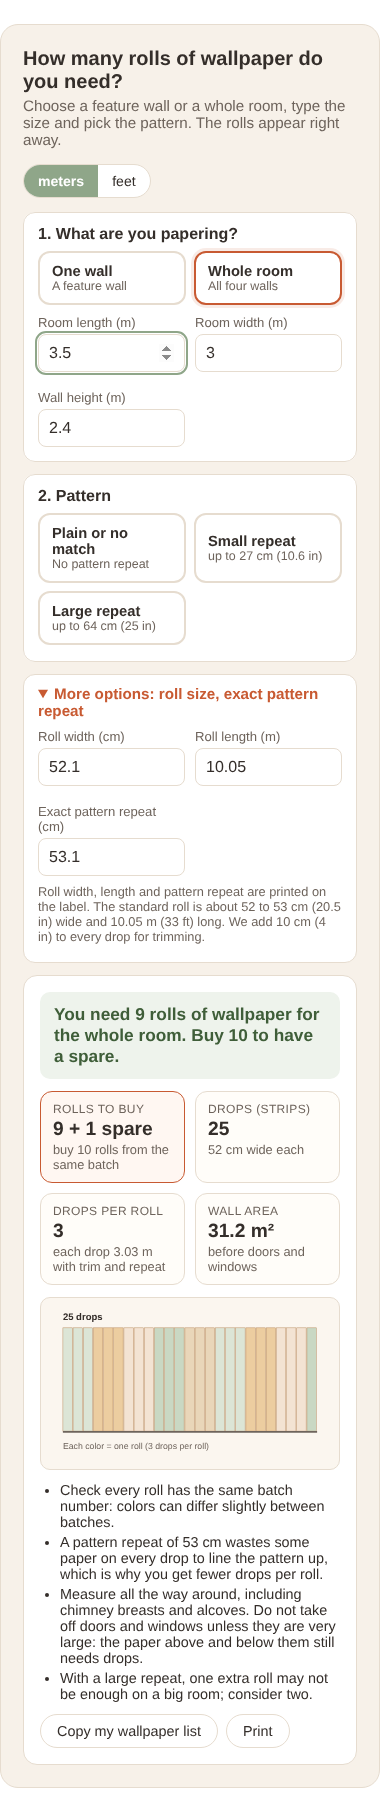
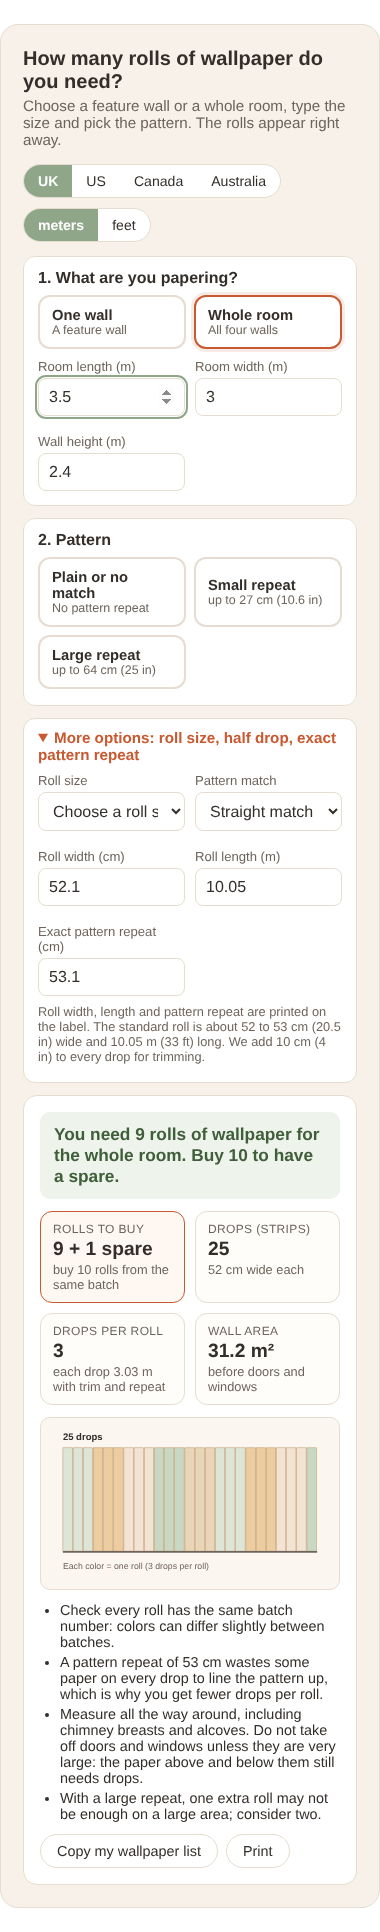
Wallpaper: countries, roll presets, half drop
Claude-Session: https://claude.ai/code/session_01NA5LVV4VZ27gRjP7KysXbg

diff --git a/tools/wallpaper-calc/content.html b/tools/wallpaper-calc/content.html
@@ -3,7 +3,7 @@
 <!-- /wp:paragraph -->
 
 <!-- wp:paragraph -->
-<p>Choose a feature wall or a whole room, type the size and pick the pattern. It works in meters or feet, and you can change the roll size under <em>More options</em> if your wallpaper is not a standard 52 to 53 cm (20.5 to 21 in) wide roll.</p>
+<p>Choose where you shop (UK, US, Canada or Australia), a feature wall or a whole room, then type the size and pick the pattern. It works in meters or feet, and under <em>More options</em> you can pick another roll size, a half-drop pattern or an exact pattern repeat.</p>
 <!-- /wp:paragraph -->
 
 <!-- wp:html -->
@@ -58,7 +58,7 @@
 </style>
 <h3>How many rolls of wallpaper do you need?</h3>
 <p class="sub">Choose a feature wall or a whole room, type the size and pick the pattern. The rolls appear right away.</p>
-<div class="row"><div class="seg" role="group" aria-label="Units"><button type="button" data-u="m">meters</button><button type="button" data-u="ft">feet</button></div></div>
+<div class="row"><div class="seg" role="group" aria-label="Where you shop"><button type="button" data-c="uk">UK</button><button type="button" data-c="us">US</button><button type="button" data-c="ca">Canada</button><button type="button" data-c="au">Australia</button></div><div class="seg" role="group" aria-label="Units"><button type="button" data-u="m">meters</button><button type="button" data-u="ft">feet</button></div></div>
 <fieldset><legend>1. What are you papering?</legend>
 <div class="opts" role="group" aria-label="Area">
 <button type="button" data-a="wall" class="on"><b>One wall</b><span>A feature wall</span></button>
@@ -77,8 +77,10 @@
 <button type="button" data-p="64"><b>Large repeat</b><span>up to 64 cm (25 in)</span></button>
 </div>
 </fieldset>
-<details class="more"><summary>More options: roll size, exact pattern repeat</summary>
+<details class="more"><summary>More options: roll size, half drop, exact pattern repeat</summary>
 <div class="grid">
+<label><span>Roll size</span><select id="rs"><option value="">Choose a roll size</option><option value="52,10.05">52 cm x 10.05 m (UK standard)</option><option value="53,10.05">53 cm x 10.05 m (European)</option><option value="61.5,10.05">61.5 cm x 10.05 m (some Australian brands)</option><option value="52.07,10.06">20.5 in x 33 ft (US double roll)</option><option value="52.07,5.03">20.5 in x 16.5 ft (US single roll)</option><option value="68.58,8.23">27 in x 27 ft (US double roll)</option></select></label>
+<label><span>Pattern match</span><select id="pm"><option value="0" selected>Straight match or no match</option><option value="0.5">Half drop</option></select></label>
 <label><span>Roll width</span> <span data-lu="s"></span><input type="number" inputmode="decimal" min="0" step="0.1" id="rlw"></label>
 <label><span>Roll length</span> <span data-lu="l"></span><input type="number" inputmode="decimal" min="0" step="0.01" id="rll"></label>
 <label><span>Exact pattern repeat</span> <span data-lu="s"></span><input type="number" inputmode="decimal" min="0" step="0.1" id="rp" placeholder="optional"></label>
@@ -127,7 +129,7 @@ if(w===null||h===null||w<=0||h<=0||(area==='room'?(rwid===null||rwid<=0):false))
 var Wm=L2m(w),Hm=L2m(h),run=area==='room'?2*(Wm+L2m(rwid)):Wm;
 var rw=(rlw===null||rlw<=0)?52:S2cm(rlw),rl=(rll===null||rll<=0)?10.05:L2m(rll);
 var rep=(rp===null||rp<0)?pat:S2cm(rp);
-var drop=Hm+0.10+rep/100;
+var pmh=parseFloat($('pm').value)||0;var drop=Hm+0.10+(rep/100)*(rep>0?1+pmh:1);
 var drops=Math.ceil(run*100/rw-0.0001);
 var dpr=Math.floor(rl/drop+0.0001);
 $('ka').textContent=fa(run*Hm);
@@ -138,20 +140,28 @@ $('kd').textContent=drops;$('kde').textContent=fs(rw)+' wide each';
 $('kp').textContent=dpr;$('kpe').textContent='each drop '+fl(drop)+' with trim'+(rep>0?' and repeat':'');
 vv.textContent='You need '+rolls+' roll'+(rolls===1?'':'s')+' of wallpaper'+(area==='room'?' for the whole room':' for this wall')+'. Buy '+(rolls+1)+' to have a spare.';
 tips.push('Check every roll has the same batch number: colors can differ slightly between batches.');
-if(rep>0){tips.push('A pattern repeat of '+fs(rep)+' wastes some paper on every drop to line the pattern up, which is why you get fewer drops per roll.')}
+if(rep>0){tips.push('A pattern repeat of '+fs(rep)+' wastes some paper on every drop to line the pattern up, which is why you get fewer drops per roll.')}if(rep>0?pmh>0:false){tips.push('Half drop: every other drop starts half a repeat lower, so the calculator allows one and a half repeats per drop. Check the label for the match type.')}
 if(area==='room'){tips.push('Measure all the way around, including chimney breasts and alcoves. Do not take off doors and windows unless they are very large: the paper above and below them still needs drops.')}else{tips.push('Do not take a door or window off a feature wall: the paper above and below it still needs full-length rolls.')}
 if(rep>=50){tips.push('With a large repeat, one extra roll may not be enough on a large area; consider two.')}
 $('tp').innerHTML=tips.map(function(t){return '<li>'+t+'</li>'}).join('');
 $('vz').innerHTML=svg(drops,dpr,rolls);
-summary='Wallpaper ('+(area==='room'?'whole room':'one wall')+', '+fl(run)+' wide x '+fl(Hm)+' high, '+(rep>0?'repeat '+fs(rep):'no repeat')+', roll '+fs(rw)+' x '+fl(rl)+'): '+drops+' drops, '+dpr+' per roll = '+rolls+' rolls, buy '+(rolls+1)+'. dailyspacehacks.com/wallpaper-calculator/'}
+summary='Wallpaper ('+(area==='room'?'whole room':'one wall')+', '+fl(run)+' wide x '+fl(Hm)+' high, '+(rep>0?'repeat '+fs(rep)+(pmh>0?' half drop':''):'no repeat')+', roll '+fs(rw)+' x '+fl(rl)+'): '+drops+' drops, '+dpr+' per roll = '+rolls+' rolls, buy '+(rolls+1)+'. dailyspacehacks.com/wallpaper-calculator/'}
 R.querySelectorAll('[data-a]').forEach(function(b){b.addEventListener('click',function(){area=b.getAttribute('data-a');R.querySelectorAll('[data-a]').forEach(function(x){x.classList.toggle('on',x===b)});$('lr').classList.toggle('hide',area!=='room');$('tw').textContent=area==='room'?'Room length':'Wall width';calc()})});
 R.querySelectorAll('[data-p]').forEach(function(b){b.addEventListener('click',function(){pat=parseFloat(b.getAttribute('data-p'));$('rp').value='';R.querySelectorAll('[data-p]').forEach(function(x){x.classList.toggle('on',x===b)});calc()})});
 R.querySelectorAll('[data-u]').forEach(function(b){b.addEventListener('click',function(){setUnit(b.getAttribute('data-u'));calc()})});
 ['ww','rw','wh','rlw','rll','rp'].forEach(function(id){$(id).addEventListener('input',function(){if(id==='rp'){var v=g('rp');R.querySelectorAll('[data-p]').forEach(function(x){x.classList.toggle('on',v===null?parseFloat(x.getAttribute('data-p'))===pat:false)})}calc()})});
 $('cp').addEventListener('click',function(){var b=$('cp');function ok(){b.textContent='Copied!';setTimeout(function(){b.textContent='Copy my wallpaper list'},1800)}try{navigator.clipboard.writeText(summary).then(ok,function(){window.prompt('Copy your wallpaper list:',summary)})}catch(e){window.prompt('Copy your wallpaper list:',summary)}});
 $('pr').addEventListener('click',function(){window.print()});
-var lang=(navigator.language||'en-GB');
-if(lang==='en'||lang.indexOf('en-US')===0){unit='ft';$('ww').value=12;$('rw').value=10;$('wh').value=8;$('rlw').value=20.5;$('rll').value=33}else{unit='m';$('ww').value=3.5;$('rw').value=3;$('wh').value=2.4;$('rlw').value=52;$('rll').value=10.05}
+var country='uk';
+function setRoll(cw,ml){$('rlw').value=unit==='ft'?Math.round(cw/IN*10)/10:Math.round(cw*10)/10;$('rll').value=unit==='ft'?Math.round(ml/FT*10)/10:Math.round(ml*100)/100}
+function setCountry(c){country=c;R.querySelectorAll('[data-c]').forEach(function(x){x.classList.toggle('on',x.getAttribute('data-c')===c)});setUnit((c==='us'?true:c==='ca')?'ft':'m');if(c==='au'){setRoll(53,10.05)}else if(c==='uk'){setRoll(52,10.05)}else{setRoll(52.07,10.06)}$('rs').value=''}
+R.querySelectorAll('[data-c]').forEach(function(b){b.addEventListener('click',function(){setCountry(b.getAttribute('data-c'));calc()})});
+$('rs').addEventListener('change',function(){var v=$('rs').value;if(v){var p=v.split(',');setRoll(parseFloat(p[0]),parseFloat(p[1]));calc()}});
+$('pm').addEventListener('change',calc);
+var lang=(navigator.language||'en-GB'),c0='uk';
+if(lang==='en'||lang.indexOf('en-US')===0){c0='us'}else if(lang.indexOf('en-CA')===0||lang.indexOf('fr-CA')===0){c0='ca'}else if(lang.indexOf('en-AU')===0||lang.indexOf('en-NZ')===0){c0='au'}
+if(c0==='us'?true:c0==='ca'){unit='ft';$('ww').value=12;$('rw').value=10;$('wh').value=8}else{unit='m';$('ww').value=3.5;$('rw').value=3;$('wh').value=2.4}
+setCountry(c0);
 lbl();calc();
 })();
 </script>
@@ -184,7 +194,7 @@ lbl();calc();
 <!-- /wp:image -->
 
 <!-- wp:heading -->
-<h2 class="wp-block-heading">How the Wallpaper Calculator Works</h2>
+<h2 class="wp-block-heading">How to Calculate Wallpaper Needed</h2>
 <!-- /wp:heading -->
 
 <!-- wp:paragraph -->
@@ -234,7 +244,7 @@ lbl();calc();
 <!-- /wp:image -->
 
 <!-- wp:heading -->
-<h2 class="wp-block-heading">Pattern Repeat Explained</h2>
+<h2 class="wp-block-heading">Wallpaper Calculator With Pattern Repeat</h2>
 <!-- /wp:heading -->
 
 <!-- wp:paragraph -->
@@ -245,16 +255,20 @@ lbl();calc();
 <p>Plain papers, textured papers and designs labeled free match have no repeat to line up. Even a small repeat of around 27 cm (10.6 in) can cost you a whole drop per roll on 2.4 m walls, and large repeats of 53 or 64 cm (21 to 25 in) waste more on taller walls. On a big room, that adds several rolls.</p>
 <!-- /wp:paragraph -->
 
+<!-- wp:paragraph -->
+<p><strong>Half-drop patterns</strong> need more paper again. With a half drop, every other drop starts half a repeat lower, so the motifs step diagonally across the wall. Fabrics &amp; Papers' guide to <a href="https://www.fabricsandpapers.com/blog/how-to-calculate-wallpaper-quantities" target="_blank" rel="noopener">calculating wallpaper quantities</a> says to add a pattern repeat for each drop apart from the first, and for a half drop to add half of the total pattern repeat again. Our calculator allows one and a half repeats on every drop for a half drop, which also covers the first drop. Choose <em>Half drop</em> under More options; the match type is printed on the label.</p>
+<!-- /wp:paragraph -->
+
 <!-- wp:heading -->
 <h2 class="wp-block-heading">Wallpaper Roll Sizes</h2>
 <!-- /wp:heading -->
 
 <!-- wp:table -->
-<figure class="wp-block-table"><table><thead><tr><th>Roll</th><th>Width</th><th>Length</th><th>Covers about</th></tr></thead><tbody><tr><td>Standard UK roll</td><td>52 cm (20.5 in)</td><td>10.05 m (33 ft)</td><td>5.2 m² (56 sq ft)</td></tr><tr><td>European roll</td><td>53 cm (20.9 in)</td><td>10 m (32.8 ft)</td><td>5.3 m² (57 sq ft)</td></tr><tr><td>US double roll</td><td>20.5 to 27 in</td><td>27 to 33 ft</td><td>56 to 70 sq ft</td></tr><tr><td>US single roll</td><td>20.5 to 27 in</td><td>13.5 to 16.5 ft</td><td>28 to 35 sq ft</td></tr></tbody></table></figure>
+<figure class="wp-block-table"><table><thead><tr><th>Roll</th><th>Width</th><th>Length</th><th>Covers about</th></tr></thead><tbody><tr><td>Standard UK roll</td><td>52 cm (20.5 in)</td><td>10.05 m (33 ft)</td><td>5.2 m² (56 sq ft)</td></tr><tr><td>European roll</td><td>53 cm (20.9 in)</td><td>10 m (32.8 ft)</td><td>5.3 m² (57 sq ft)</td></tr><tr><td>Some Australian brands</td><td>61.5 cm (24.2 in)</td><td>10.05 m (33 ft)</td><td>6.2 m² (66 sq ft)</td></tr><tr><td>US double roll</td><td>20.5 to 27 in</td><td>27 to 33 ft</td><td>56 to 70 sq ft</td></tr><tr><td>US single roll</td><td>20.5 to 27 in</td><td>13.5 to 16.5 ft</td><td>28 to 35 sq ft</td></tr></tbody></table></figure>
 <!-- /wp:table -->
 
 <!-- wp:paragraph -->
-<p>Sizes come from Practical DIY (standard UK roll) and <a href="https://www.selectedwallpapers.com/pages/european-rolls-vs-double-rolls" target="_blank" rel="noopener">Selected Wallpapers</a> (European and US rolls). Selected Wallpapers notes that one European roll is roughly one American double roll. Before you order, check whether the price and the label refer to a single or a double roll.</p>
+<p>Sizes come from Practical DIY (standard UK roll) and <a href="https://www.selectedwallpapers.com/pages/european-rolls-vs-double-rolls" target="_blank" rel="noopener">Selected Wallpapers</a> (European and US rolls). Selected Wallpapers notes that one European roll is roughly one American double roll. In Australia, Bunnings lists <a href="https://www.bunnings.com.au/wallpaper-trader-beach-people-wallpaper-roll-10-05m-x-61-5cm_p1069289" target="_blank" rel="noopener">Wallpaper Trader rolls at 10.05 m x 61.5 cm</a>, wider than the UK standard, so always copy the roll size from the label. Before you order, check whether the price and the label refer to a single or a double roll.</p>
 <!-- /wp:paragraph -->
 
 <!-- wp:image {"id":2636,"sizeSlug":"full","linkDestination":"none"} -->
@@ -307,6 +321,14 @@ lbl();calc();
 
 <!-- wp:paragraph -->
 <p>A standard 10.05 m roll gives four drops on a wall about 2.4 m high with no pattern repeat, and three drops with a repeat of up to 64 cm. On taller walls or with a large repeat you may only get two or three drops per roll.</p>
+<!-- /wp:paragraph -->
+
+<!-- wp:heading {"level":3} -->
+<h3 class="wp-block-heading">How do you calculate half drop wallpaper?</h3>
+<!-- /wp:heading -->
+
+<!-- wp:paragraph -->
+<p>Work out the length of each drop as usual (wall height plus about 10 cm or 4 in for trimming), then add one and a half pattern repeats instead of one. Divide the roll length by that drop length to get the drops per roll, and divide the drops you need by that number. Choose Half drop in the calculator to do it for you.</p>
 <!-- /wp:paragraph -->
 
 <!-- wp:heading {"level":3} -->

diff --git a/tools/embed/out/page-wallpaper-rolls.html b/tools/embed/out/page-wallpaper-rolls.html
@@ -63,7 +63,7 @@ body.dsh-embed .dsh-calc .viz svg{max-height:340px}
 </style>
 <h3>How many rolls of wallpaper do you need?</h3>
 <p class="sub">Choose a feature wall or a whole room, type the size and pick the pattern. The rolls appear right away.</p>
-<div class="row"><div class="seg" role="group" aria-label="Units"><button type="button" data-u="m">meters</button><button type="button" data-u="ft">feet</button></div></div>
+<div class="row"><div class="seg" role="group" aria-label="Where you shop"><button type="button" data-c="uk">UK</button><button type="button" data-c="us">US</button><button type="button" data-c="ca">Canada</button><button type="button" data-c="au">Australia</button></div><div class="seg" role="group" aria-label="Units"><button type="button" data-u="m">meters</button><button type="button" data-u="ft">feet</button></div></div>
 <fieldset><legend>1. What are you papering?</legend>
 <div class="opts" role="group" aria-label="Area">
 <button type="button" data-a="wall" class="on"><b>One wall</b><span>A feature wall</span></button>
@@ -82,8 +82,10 @@ body.dsh-embed .dsh-calc .viz svg{max-height:340px}
 <button type="button" data-p="64"><b>Large repeat</b><span>up to 64 cm (25 in)</span></button>
 </div>
 </fieldset>
-<details class="more"><summary>More options: roll size, exact pattern repeat</summary>
+<details class="more"><summary>More options: roll size, half drop, exact pattern repeat</summary>
 <div class="grid">
+<label><span>Roll size</span><select id="rs"><option value="">Choose a roll size</option><option value="52,10.05">52 cm x 10.05 m (UK standard)</option><option value="53,10.05">53 cm x 10.05 m (European)</option><option value="61.5,10.05">61.5 cm x 10.05 m (some Australian brands)</option><option value="52.07,10.06">20.5 in x 33 ft (US double roll)</option><option value="52.07,5.03">20.5 in x 16.5 ft (US single roll)</option><option value="68.58,8.23">27 in x 27 ft (US double roll)</option></select></label>
+<label><span>Pattern match</span><select id="pm"><option value="0" selected>Straight match or no match</option><option value="0.5">Half drop</option></select></label>
 <label><span>Roll width</span> <span data-lu="s"></span><input type="number" inputmode="decimal" min="0" step="0.1" id="rlw"></label>
 <label><span>Roll length</span> <span data-lu="l"></span><input type="number" inputmode="decimal" min="0" step="0.01" id="rll"></label>
 <label><span>Exact pattern repeat</span> <span data-lu="s"></span><input type="number" inputmode="decimal" min="0" step="0.1" id="rp" placeholder="optional"></label>
@@ -132,7 +134,7 @@ if(w===null||h===null||w<=0||h<=0||(area==='room'?(rwid===null||rwid<=0):false))
 var Wm=L2m(w),Hm=L2m(h),run=area==='room'?2*(Wm+L2m(rwid)):Wm;
 var rw=(rlw===null||rlw<=0)?52:S2cm(rlw),rl=(rll===null||rll<=0)?10.05:L2m(rll);
 var rep=(rp===null||rp<0)?pat:S2cm(rp);
-var drop=Hm+0.10+rep/100;
+var pmh=parseFloat($('pm').value)||0;var drop=Hm+0.10+(rep/100)*(rep>0?1+pmh:1);
 var drops=Math.ceil(run*100/rw-0.0001);
 var dpr=Math.floor(rl/drop+0.0001);
 $('ka').textContent=fa(run*Hm);
@@ -143,20 +145,28 @@ $('kd').textContent=drops;$('kde').textContent=fs(rw)+' wide each';
 $('kp').textContent=dpr;$('kpe').textContent='each drop '+fl(drop)+' with trim'+(rep>0?' and repeat':'');
 vv.textContent='You need '+rolls+' roll'+(rolls===1?'':'s')+' of wallpaper'+(area==='room'?' for the whole room':' for this wall')+'. Buy '+(rolls+1)+' to have a spare.';
 tips.push('Check every roll has the same batch number: colors can differ slightly between batches.');
-if(rep>0){tips.push('A pattern repeat of '+fs(rep)+' wastes some paper on every drop to line the pattern up, which is why you get fewer drops per roll.')}
+if(rep>0){tips.push('A pattern repeat of '+fs(rep)+' wastes some paper on every drop to line the pattern up, which is why you get fewer drops per roll.')}if(rep>0?pmh>0:false){tips.push('Half drop: every other drop starts half a repeat lower, so the calculator allows one and a half repeats per drop. Check the label for the match type.')}
 if(area==='room'){tips.push('Measure all the way around, including chimney breasts and alcoves. Do not take off doors and windows unless they are very large: the paper above and below them still needs drops.')}else{tips.push('Do not take a door or window off a feature wall: the paper above and below it still needs full-length rolls.')}
 if(rep>=50){tips.push('With a large repeat, one extra roll may not be enough on a large area; consider two.')}
 $('tp').innerHTML=tips.map(function(t){return '<li>'+t+'</li>'}).join('');
 $('vz').innerHTML=svg(drops,dpr,rolls);
-summary='Wallpaper ('+(area==='room'?'whole room':'one wall')+', '+fl(run)+' wide x '+fl(Hm)+' high, '+(rep>0?'repeat '+fs(rep):'no repeat')+', roll '+fs(rw)+' x '+fl(rl)+'): '+drops+' drops, '+dpr+' per roll = '+rolls+' rolls, buy '+(rolls+1)+'. dailyspacehacks.com/wallpaper-calculator/'}
+summary='Wallpaper ('+(area==='room'?'whole room':'one wall')+', '+fl(run)+' wide x '+fl(Hm)+' high, '+(rep>0?'repeat '+fs(rep)+(pmh>0?' half drop':''):'no repeat')+', roll '+fs(rw)+' x '+fl(rl)+'): '+drops+' drops, '+dpr+' per roll = '+rolls+' rolls, buy '+(rolls+1)+'. dailyspacehacks.com/wallpaper-calculator/'}
 R.querySelectorAll('[data-a]').forEach(function(b){b.addEventListener('click',function(){area=b.getAttribute('data-a');R.querySelectorAll('[data-a]').forEach(function(x){x.classList.toggle('on',x===b)});$('lr').classList.toggle('hide',area!=='room');$('tw').textContent=area==='room'?'Room length':'Wall width';calc()})});
 R.querySelectorAll('[data-p]').forEach(function(b){b.addEventListener('click',function(){pat=parseFloat(b.getAttribute('data-p'));$('rp').value='';R.querySelectorAll('[data-p]').forEach(function(x){x.classList.toggle('on',x===b)});calc()})});
 R.querySelectorAll('[data-u]').forEach(function(b){b.addEventListener('click',function(){setUnit(b.getAttribute('data-u'));calc()})});
 ['ww','rw','wh','rlw','rll','rp'].forEach(function(id){$(id).addEventListener('input',function(){if(id==='rp'){var v=g('rp');R.querySelectorAll('[data-p]').forEach(function(x){x.classList.toggle('on',v===null?parseFloat(x.getAttribute('data-p'))===pat:false)})}calc()})});
 $('cp').addEventListener('click',function(){var b=$('cp');function ok(){b.textContent='Copied!';setTimeout(function(){b.textContent='Copy my wallpaper list'},1800)}try{navigator.clipboard.writeText(summary).then(ok,function(){window.prompt('Copy your wallpaper list:',summary)})}catch(e){window.prompt('Copy your wallpaper list:',summary)}});
 $('pr').addEventListener('click',function(){window.print()});
-var lang=(navigator.language||'en-GB');
-if(lang==='en'||lang.indexOf('en-US')===0){unit='ft';$('ww').value=12;$('rw').value=10;$('wh').value=8;$('rlw').value=20.5;$('rll').value=33}else{unit='m';$('ww').value=3.5;$('rw').value=3;$('wh').value=2.4;$('rlw').value=52;$('rll').value=10.05}
+var country='uk';
+function setRoll(cw,ml){$('rlw').value=unit==='ft'?Math.round(cw/IN*10)/10:Math.round(cw*10)/10;$('rll').value=unit==='ft'?Math.round(ml/FT*10)/10:Math.round(ml*100)/100}
+function setCountry(c){country=c;R.querySelectorAll('[data-c]').forEach(function(x){x.classList.toggle('on',x.getAttribute('data-c')===c)});setUnit((c==='us'?true:c==='ca')?'ft':'m');if(c==='au'){setRoll(53,10.05)}else if(c==='uk'){setRoll(52,10.05)}else{setRoll(52.07,10.06)}$('rs').value=''}
+R.querySelectorAll('[data-c]').forEach(function(b){b.addEventListener('click',function(){setCountry(b.getAttribute('data-c'));calc()})});
+$('rs').addEventListener('change',function(){var v=$('rs').value;if(v){var p=v.split(',');setRoll(parseFloat(p[0]),parseFloat(p[1]));calc()}});
+$('pm').addEventListener('change',calc);
+var lang=(navigator.language||'en-GB'),c0='uk';
+if(lang==='en'||lang.indexOf('en-US')===0){c0='us'}else if(lang.indexOf('en-CA')===0||lang.indexOf('fr-CA')===0){c0='ca'}else if(lang.indexOf('en-AU')===0||lang.indexOf('en-NZ')===0){c0='au'}
+if(c0==='us'?true:c0==='ca'){unit='ft';$('ww').value=12;$('rw').value=10;$('wh').value=8}else{unit='m';$('ww').value=3.5;$('rw').value=3;$('wh').value=2.4}
+setCountry(c0);
 lbl();calc();
 })();
 </script>

diff --git a/tools/wallpaper-calc/tool.html b/tools/wallpaper-calc/tool.html
@@ -49,7 +49,7 @@
 </style>
 <h3>How many rolls of wallpaper do you need?</h3>
 <p class="sub">Choose a feature wall or a whole room, type the size and pick the pattern. The rolls appear right away.</p>
-<div class="row"><div class="seg" role="group" aria-label="Units"><button type="button" data-u="m">meters</button><button type="button" data-u="ft">feet</button></div></div>
+<div class="row"><div class="seg" role="group" aria-label="Where you shop"><button type="button" data-c="uk">UK</button><button type="button" data-c="us">US</button><button type="button" data-c="ca">Canada</button><button type="button" data-c="au">Australia</button></div><div class="seg" role="group" aria-label="Units"><button type="button" data-u="m">meters</button><button type="button" data-u="ft">feet</button></div></div>
 <fieldset><legend>1. What are you papering?</legend>
 <div class="opts" role="group" aria-label="Area">
 <button type="button" data-a="wall" class="on"><b>One wall</b><span>A feature wall</span></button>
@@ -68,8 +68,10 @@
 <button type="button" data-p="64"><b>Large repeat</b><span>up to 64 cm (25 in)</span></button>
 </div>
 </fieldset>
-<details class="more"><summary>More options: roll size, exact pattern repeat</summary>
+<details class="more"><summary>More options: roll size, half drop, exact pattern repeat</summary>
 <div class="grid">
+<label><span>Roll size</span><select id="rs"><option value="">Choose a roll size</option><option value="52,10.05">52 cm x 10.05 m (UK standard)</option><option value="53,10.05">53 cm x 10.05 m (European)</option><option value="61.5,10.05">61.5 cm x 10.05 m (some Australian brands)</option><option value="52.07,10.06">20.5 in x 33 ft (US double roll)</option><option value="52.07,5.03">20.5 in x 16.5 ft (US single roll)</option><option value="68.58,8.23">27 in x 27 ft (US double roll)</option></select></label>
+<label><span>Pattern match</span><select id="pm"><option value="0" selected>Straight match or no match</option><option value="0.5">Half drop</option></select></label>
 <label><span>Roll width</span> <span data-lu="s"></span><input type="number" inputmode="decimal" min="0" step="0.1" id="rlw"></label>
 <label><span>Roll length</span> <span data-lu="l"></span><input type="number" inputmode="decimal" min="0" step="0.01" id="rll"></label>
 <label><span>Exact pattern repeat</span> <span data-lu="s"></span><input type="number" inputmode="decimal" min="0" step="0.1" id="rp" placeholder="optional"></label>
@@ -118,7 +120,7 @@ if(w===null||h===null||w<=0||h<=0||(area==='room'?(rwid===null||rwid<=0):false))
 var Wm=L2m(w),Hm=L2m(h),run=area==='room'?2*(Wm+L2m(rwid)):Wm;
 var rw=(rlw===null||rlw<=0)?52:S2cm(rlw),rl=(rll===null||rll<=0)?10.05:L2m(rll);
 var rep=(rp===null||rp<0)?pat:S2cm(rp);
-var drop=Hm+0.10+rep/100;
+var pmh=parseFloat($('pm').value)||0;var drop=Hm+0.10+(rep/100)*(rep>0?1+pmh:1);
 var drops=Math.ceil(run*100/rw-0.0001);
 var dpr=Math.floor(rl/drop+0.0001);
 $('ka').textContent=fa(run*Hm);
@@ -129,20 +131,28 @@ $('kd').textContent=drops;$('kde').textContent=fs(rw)+' wide each';
 $('kp').textContent=dpr;$('kpe').textContent='each drop '+fl(drop)+' with trim'+(rep>0?' and repeat':'');
 vv.textContent='You need '+rolls+' roll'+(rolls===1?'':'s')+' of wallpaper'+(area==='room'?' for the whole room':' for this wall')+'. Buy '+(rolls+1)+' to have a spare.';
 tips.push('Check every roll has the same batch number: colors can differ slightly between batches.');
-if(rep>0){tips.push('A pattern repeat of '+fs(rep)+' wastes some paper on every drop to line the pattern up, which is why you get fewer drops per roll.')}
+if(rep>0){tips.push('A pattern repeat of '+fs(rep)+' wastes some paper on every drop to line the pattern up, which is why you get fewer drops per roll.')}if(rep>0?pmh>0:false){tips.push('Half drop: every other drop starts half a repeat lower, so the calculator allows one and a half repeats per drop. Check the label for the match type.')}
 if(area==='room'){tips.push('Measure all the way around, including chimney breasts and alcoves. Do not take off doors and windows unless they are very large: the paper above and below them still needs drops.')}else{tips.push('Do not take a door or window off a feature wall: the paper above and below it still needs full-length rolls.')}
 if(rep>=50){tips.push('With a large repeat, one extra roll may not be enough on a large area; consider two.')}
 $('tp').innerHTML=tips.map(function(t){return '<li>'+t+'</li>'}).join('');
 $('vz').innerHTML=svg(drops,dpr,rolls);
-summary='Wallpaper ('+(area==='room'?'whole room':'one wall')+', '+fl(run)+' wide x '+fl(Hm)+' high, '+(rep>0?'repeat '+fs(rep):'no repeat')+', roll '+fs(rw)+' x '+fl(rl)+'): '+drops+' drops, '+dpr+' per roll = '+rolls+' rolls, buy '+(rolls+1)+'. dailyspacehacks.com/wallpaper-calculator/'}
+summary='Wallpaper ('+(area==='room'?'whole room':'one wall')+', '+fl(run)+' wide x '+fl(Hm)+' high, '+(rep>0?'repeat '+fs(rep)+(pmh>0?' half drop':''):'no repeat')+', roll '+fs(rw)+' x '+fl(rl)+'): '+drops+' drops, '+dpr+' per roll = '+rolls+' rolls, buy '+(rolls+1)+'. dailyspacehacks.com/wallpaper-calculator/'}
 R.querySelectorAll('[data-a]').forEach(function(b){b.addEventListener('click',function(){area=b.getAttribute('data-a');R.querySelectorAll('[data-a]').forEach(function(x){x.classList.toggle('on',x===b)});$('lr').classList.toggle('hide',area!=='room');$('tw').textContent=area==='room'?'Room length':'Wall width';calc()})});
 R.querySelectorAll('[data-p]').forEach(function(b){b.addEventListener('click',function(){pat=parseFloat(b.getAttribute('data-p'));$('rp').value='';R.querySelectorAll('[data-p]').forEach(function(x){x.classList.toggle('on',x===b)});calc()})});
 R.querySelectorAll('[data-u]').forEach(function(b){b.addEventListener('click',function(){setUnit(b.getAttribute('data-u'));calc()})});
 ['ww','rw','wh','rlw','rll','rp'].forEach(function(id){$(id).addEventListener('input',function(){if(id==='rp'){var v=g('rp');R.querySelectorAll('[data-p]').forEach(function(x){x.classList.toggle('on',v===null?parseFloat(x.getAttribute('data-p'))===pat:false)})}calc()})});
 $('cp').addEventListener('click',function(){var b=$('cp');function ok(){b.textContent='Copied!';setTimeout(function(){b.textContent='Copy my wallpaper list'},1800)}try{navigator.clipboard.writeText(summary).then(ok,function(){window.prompt('Copy your wallpaper list:',summary)})}catch(e){window.prompt('Copy your wallpaper list:',summary)}});
 $('pr').addEventListener('click',function(){window.print()});
-var lang=(navigator.language||'en-GB');
-if(lang==='en'||lang.indexOf('en-US')===0){unit='ft';$('ww').value=12;$('rw').value=10;$('wh').value=8;$('rlw').value=20.5;$('rll').value=33}else{unit='m';$('ww').value=3.5;$('rw').value=3;$('wh').value=2.4;$('rlw').value=52;$('rll').value=10.05}
+var country='uk';
+function setRoll(cw,ml){$('rlw').value=unit==='ft'?Math.round(cw/IN*10)/10:Math.round(cw*10)/10;$('rll').value=unit==='ft'?Math.round(ml/FT*10)/10:Math.round(ml*100)/100}
+function setCountry(c){country=c;R.querySelectorAll('[data-c]').forEach(function(x){x.classList.toggle('on',x.getAttribute('data-c')===c)});setUnit((c==='us'?true:c==='ca')?'ft':'m');if(c==='au'){setRoll(53,10.05)}else if(c==='uk'){setRoll(52,10.05)}else{setRoll(52.07,10.06)}$('rs').value=''}
+R.querySelectorAll('[data-c]').forEach(function(b){b.addEventListener('click',function(){setCountry(b.getAttribute('data-c'));calc()})});
+$('rs').addEventListener('change',function(){var v=$('rs').value;if(v){var p=v.split(',');setRoll(parseFloat(p[0]),parseFloat(p[1]));calc()}});
+$('pm').addEventListener('change',calc);
+var lang=(navigator.language||'en-GB'),c0='uk';
+if(lang==='en'||lang.indexOf('en-US')===0){c0='us'}else if(lang.indexOf('en-CA')===0||lang.indexOf('fr-CA')===0){c0='ca'}else if(lang.indexOf('en-AU')===0||lang.indexOf('en-NZ')===0){c0='au'}
+if(c0==='us'?true:c0==='ca'){unit='ft';$('ww').value=12;$('rw').value=10;$('wh').value=8}else{unit='m';$('ww').value=3.5;$('rw').value=3;$('wh').value=2.4}
+setCountry(c0);
 lbl();calc();
 })();
 </script>

diff --git a/tools/wallpaper-calc/t2.js b/tools/wallpaper-calc/t2.js
@@ -1,0 +1,15 @@
+const {chromium}=require('playwright');
+(async()=>{const b=await chromium.launch();
+for (const loc of ['en-US','en-GB','en-AU','en-CA']){
+const c=await b.newContext({locale:loc});const p=await c.newPage({viewport:{width:800,height:900}});
+const errs=[];p.on('pageerror',e=>errs.push(e.message));
+await p.setContent('<html><body style="font-family:Arial;max-width:760px;margin:auto">'+require('fs').readFileSync('tool.html','utf8')+'</body></html>');
+const r=async()=>p.evaluate(()=>['vv','kr','kd','kp'].map(i=>document.getElementById(i).textContent).join(' | ')+' roll '+document.getElementById('rlw').value+'x'+document.getElementById('rll').value);
+console.log(loc,'default:',await r());
+await p.click('[data-p="64"]');console.log('large:',await r());
+await p.click('summary');await p.selectOption('#pm','0.5');console.log('halfdrop:',await r());
+await p.selectOption('#rs','61.5,10.05');console.log('615:',await r());
+await p.click('[data-c="uk"]');console.log('toUK:',await r(),await p.inputValue('#ww'));
+await p.click('[data-c="us"]');console.log('toUS:',await r(),await p.inputValue('#ww'));
+console.log('errors',errs);await c.close();}
+await b.close();})();

diff --git a/tools/wallpaper-calc/build.py b/tools/wallpaper-calc/build.py
@@ -5,11 +5,13 @@ DU="https://dunelm.com/info/buying-guides/how-to-measure-wallpaper"
 PD="https://www.practicaldiy.com/decorating/wallpaper/wallpaper_quantity.php"
 BV="https://www.bobvila.com/articles/how-to-measure-for-wallpaper/"
 SW="https://www.selectedwallpapers.com/pages/european-rolls-vs-double-rolls"
+FP="https://www.fabricsandpapers.com/blog/how-to-calculate-wallpaper-quantities"
+BN="https://www.bunnings.com.au/wallpaper-trader-beach-people-wallpaper-roll-10-05m-x-61-5cm_p1069289"
 FT=0.3048
 def rolls(run,H,rep,rw=52,rl=10.05):
     drop=H+0.10+rep/100; d=math.ceil(run*100/rw-1e-4); dpr=math.floor(rl/drop+1e-4); return math.ceil(d/dpr)
 p("How much wallpaper do you need? This free <strong>wallpaper calculator</strong> works it out drop by drop: it counts the drops (strips) your wall needs, how many drops you get from each roll once you allow for trimming and the pattern repeat, and turns that into the number of rolls to buy.")
-p("Choose a feature wall or a whole room, type the size and pick the pattern. It works in meters or feet, and you can change the roll size under <em>More options</em> if your wallpaper is not a standard 52 to 53 cm (20.5 to 21 in) wide roll.")
+p("Choose where you shop (UK, US, Canada or Australia), a feature wall or a whole room, then type the size and pick the pattern. It works in meters or feet, and under <em>More options</em> you can pick another roll size, a half-drop pattern or an exact pattern repeat.")
 add('<!-- wp:html -->\n'+open('tool.html').read()+'\n<!-- /wp:html -->')
 h2("How Many Rolls of Wallpaper Do I Need?")
 p("These charts use standard rolls, 10 cm (4 in) of trim on every drop and the pattern repeat shown. They do not include the spare roll we recommend you add.")
@@ -23,7 +25,7 @@ for lab,run in [('Feature wall 10 ft wide',10),('Feature wall 12 ft wide',12),('
 table(["Walls 8 ft high, 20.5 in x 33 ft rolls","Plain or no repeat","Large repeat (25 in)"],rows)
 p("Notice the difference between the two charts. A 2.4 m wall plus trim is 2.5 m per drop, so a 10.05 m roll gives exactly four drops. An 8 ft wall plus 4 in of trim is about 8 ft 4 in, and four of those need just over 33 ft, so a 33 ft roll gives only three full drops. On 8 ft walls, a pattern repeat often costs you nothing extra.")
 img(1)
-h2("How the Wallpaper Calculator Works")
+h2("How to Calculate Wallpaper Needed")
 p(f"It uses the strip method from Bob Vila's guide on {ext(BV,'how to measure for wallpaper')}, instead of dividing the wall area by the roll area. Area alone ignores the paper you waste at the top and bottom of every drop.")
 lst(["<strong>Drops needed</strong> = the width to cover (one wall, or the distance all the way around the room) divided by the roll width, rounded up.",
 f"<strong>Length of each drop</strong> = wall height + 10 cm (4 in) for trimming + the pattern repeat. The trim follows Selected Wallpapers, whose calculator allows {ext(SW,'about 2 in (5 cm) on all sides')}.",
@@ -36,16 +38,18 @@ lst(["<strong>Measure the width.</strong> For a feature wall, measure from corne
 "<strong>Do not take off doors and windows.</strong> Bob Vila's guide says not to deduct them. Practical DIY only subtracts very large windows or areas that will not be papered.",
 "<strong>Read the label</strong> for the roll width, roll length and pattern repeat, and enter them under More options if they are not standard."],True)
 img(2)
-h2("Pattern Repeat Explained")
+h2("Wallpaper Calculator With Pattern Repeat")
 p(f"The pattern repeat is the height after which the design starts again. To line the pattern up across the seams, each drop has to start at the same point in the design, so you lose up to one repeat of paper on every drop. Practical DIY notes that, generally, {ext(PD,'the larger the vertical repeat, the more rolls you will need')}, because the waste is greater.")
 p("Plain papers, textured papers and designs labeled free match have no repeat to line up. Even a small repeat of around 27 cm (10.6 in) can cost you a whole drop per roll on 2.4 m walls, and large repeats of 53 or 64 cm (21 to 25 in) waste more on taller walls. On a big room, that adds several rolls.")
+p(f"<strong>Half-drop patterns</strong> need more paper again. With a half drop, every other drop starts half a repeat lower, so the motifs step diagonally across the wall. Fabrics &amp; Papers' guide to {ext(FP,'calculating wallpaper quantities')} says to add a pattern repeat for each drop apart from the first, and for a half drop to add half of the total pattern repeat again. Our calculator allows one and a half repeats on every drop for a half drop, which also covers the first drop. Choose <em>Half drop</em> under More options; the match type is printed on the label.")
 h2("Wallpaper Roll Sizes")
 table(["Roll","Width","Length","Covers about"],[
 ["Standard UK roll","52 cm (20.5 in)","10.05 m (33 ft)","5.2 m² (56 sq ft)"],
 ["European roll","53 cm (20.9 in)","10 m (32.8 ft)","5.3 m² (57 sq ft)"],
+["Some Australian brands","61.5 cm (24.2 in)","10.05 m (33 ft)","6.2 m² (66 sq ft)"],
 ["US double roll","20.5 to 27 in","27 to 33 ft","56 to 70 sq ft"],
 ["US single roll","20.5 to 27 in","13.5 to 16.5 ft","28 to 35 sq ft"]])
-p(f"Sizes come from Practical DIY (standard UK roll) and {ext(SW,'Selected Wallpapers')} (European and US rolls). Selected Wallpapers notes that one European roll is roughly one American double roll. Before you order, check whether the price and the label refer to a single or a double roll.")
+p(f"Sizes come from Practical DIY (standard UK roll) and {ext(SW,'Selected Wallpapers')} (European and US rolls). Selected Wallpapers notes that one European roll is roughly one American double roll. In Australia, Bunnings lists {ext(BN,'Wallpaper Trader rolls at 10.05 m x 61.5 cm')}, wider than the UK standard, so always copy the roll size from the label. Before you order, check whether the price and the label refer to a single or a double roll.")
 img(3)
 h2("Before You Buy")
 lst(["<strong>Buy one spare roll</strong>, or two for a large repeat on a big room. Bob Vila suggests one or two more rolls than you think you need, and Practical DIY adds a couple for large repeats.",
@@ -59,6 +63,8 @@ h3("How many rolls of wallpaper for a 12 x 12 room?")
 p("A 12 x 12 ft room with 8 ft walls needs about 10 standard 20.5 in x 33 ft rolls: 48 ft of wall all the way around is 29 drops, and each roll gives three drops once you allow for trimming. Buy 11 to have a spare. Doors and windows are not taken off.")
 h3("How many drops do you get from a roll of wallpaper?")
 p("A standard 10.05 m roll gives four drops on a wall about 2.4 m high with no pattern repeat, and three drops with a repeat of up to 64 cm. On taller walls or with a large repeat you may only get two or three drops per roll.")
+h3("How do you calculate half drop wallpaper?")
+p("Work out the length of each drop as usual (wall height plus about 10 cm or 4 in for trimming), then add one and a half pattern repeats instead of one. Divide the roll length by that drop length to get the drops per roll, and divide the drops you need by that number. Choose Half drop in the calculator to do it for you.")
 h3("Should I subtract doors and windows when measuring for wallpaper?")
 p("Usually not. You still need drops above and below doors and windows, and cutting around them wastes paper. Measure the full wall and only subtract very large openings, such as a wide patio door or a wall of windows.")
 h2("More Room Planning Tools")
